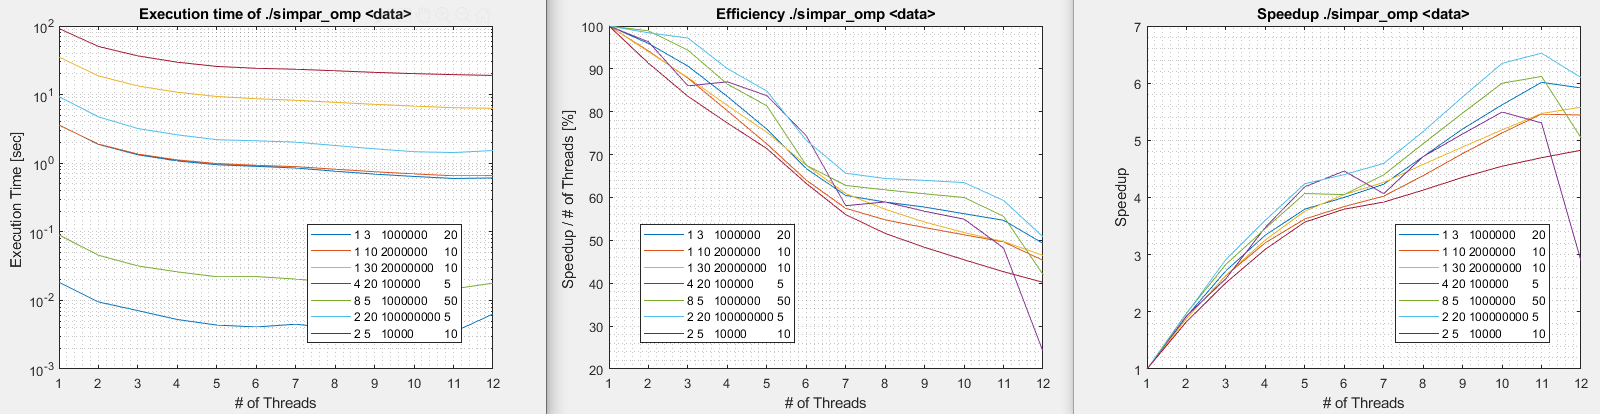
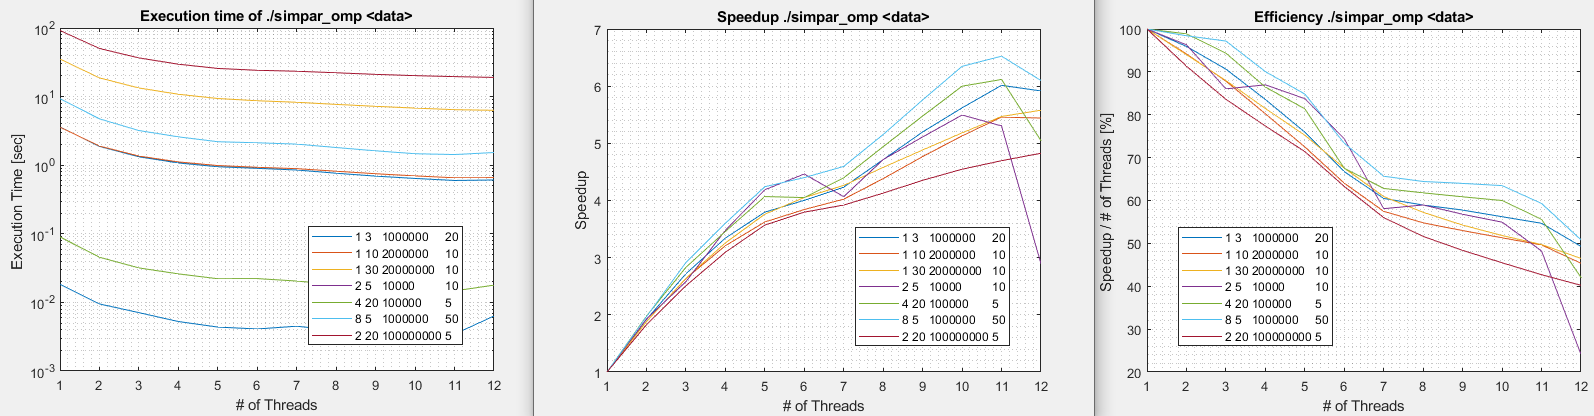
small fixes on the graphs and clean

diff --git a/MATALB/all_tests.m b/MATALB/all_tests.m
@@ -25,10 +25,10 @@ legend(...
     "1 3   1000000     20",...
     "1 10 2000000     10", ...
     "1 30 20000000   10", ...
+    "2 5   10000         10", ...
     "4 20 100000       5", ...
     "8 5   1000000     50", ...
-    "2 20 100000000 5", ...
-    "2 5   10000         10", 'Location', 'Best');
+    "2 20 100000000 5", 'Location', 'Best');
 xlim([1 12]);
 grid minor
 title("Execution time of ./simpar\_omp <data>")
@@ -41,10 +41,10 @@ legend(...
     "1 3   1000000     20",...
     "1 10 2000000     10", ...
     "1 30 20000000   10", ...
+    "2 5   10000         10", ...
     "4 20 100000       5", ...
     "8 5   1000000     50", ...
-    "2 20 100000000 5", ...
-    "2 5   10000         10", 'Location', 'Best');
+    "2 20 100000000 5", 'Location', 'Best');
 xlim([1 12]);
 grid minor
 title("Efficiency ./simpar\_omp <data>")
@@ -57,10 +57,10 @@ legend(...
     "1 3   1000000     20",...
     "1 10 2000000     10", ...
     "1 30 20000000   10", ...
+    "2 5   10000         10", ...
     "4 20 100000       5", ...
     "8 5   1000000     50", ...
-    "2 20 100000000 5", ...
-    "2 5   10000         10", 'Location', 'Best');
+    "2 20 100000000 5", 'Location', 'Best');
 xlim([1 12]);
 grid minor
 title("Speedup ./simpar\_omp <data>")

diff --git a/main_omp.c b/main_omp.c
@@ -71,7 +71,6 @@ main(int argc, char const *argv[]){
   cell_y = (double *)malloc(sizeof(double) * cell_size);
   cell_m = (double *)malloc(sizeof(double) * cell_size);
 
-  double startTime = omp_get_wtime();
   for(k = 0; k < iterations; k++){
 
     memset(cell_x, 0, sizeof(double)* cell_size);
@@ -162,12 +161,6 @@ main(int argc, char const *argv[]){
   }
 
   printf("%.2f %.2f \n", x_total / m_total, y_total / m_total);
-
-  /*
-    double stopTime = omp_get_wtime();
-    double secsElapsed = stopTime - startTime;
-    printf("    %.15lg   \n\n", secsElapsed);
-  */
 
   free(par);
   free(cell_x);
